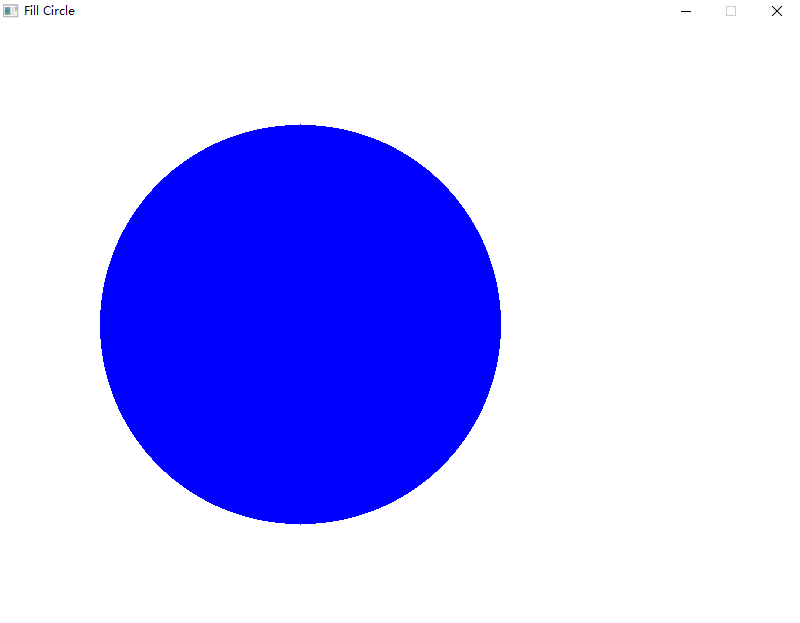
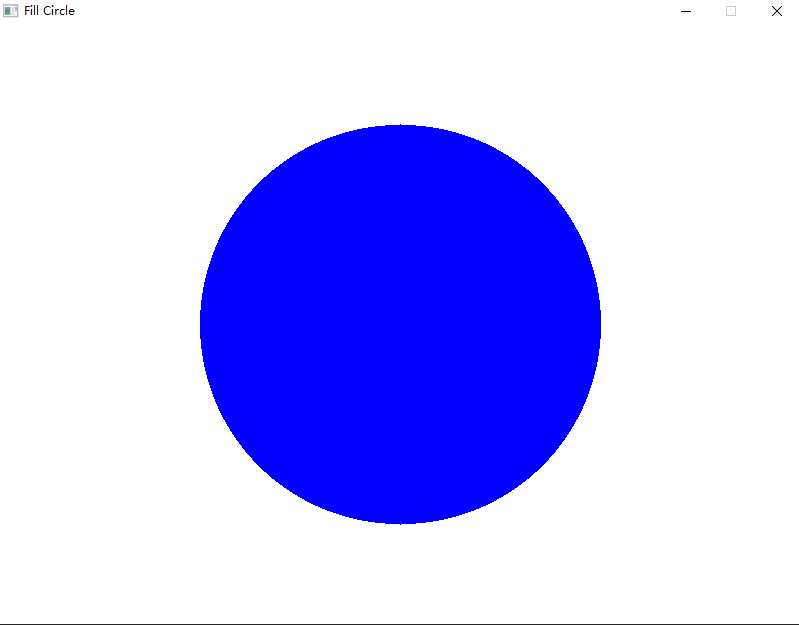
Made some change base on the PR

Changed region(s): [[0.1202, 0.183, 0.7509, 0.8539], [0.9612, 0.0, 0.9912, 0.0305]]

diff --git a/src/assets/usage-examples-code/graphics/fill_circle/fill_circle-1-circle-color.cpp b/src/assets/usage-examples-code/graphics/fill_circle/fill_circle-1-circle-color.cpp
@@ -4,7 +4,7 @@ int main()
 {
     open_window("Fill Circle", 800, 600);
     clear_screen();
-    fill_circle(COLOR_BLUE, 300, 300, 200);
+    fill_circle(COLOR_BLUE, 400, 300, 200);
     refresh_screen(60);
     delay(4000);
 

diff --git a/src/assets/usage-examples-code/graphics/fill_circle/fill_circle-1-circle-color.cs b/src/assets/usage-examples-code/graphics/fill_circle/fill_circle-1-circle-color.cs
@@ -3,7 +3,7 @@ using static SplashKitSDK.SplashKit;
 OpenWindow("Fill Circle", 800, 600);
 ClearScreen();
 
-FillCircle(ColorBlue(), 300, 300, 200);
+FillCircle(ColorBlue(), 400, 300, 200);
 RefreshScreen(60);
 Delay(4000);
 
